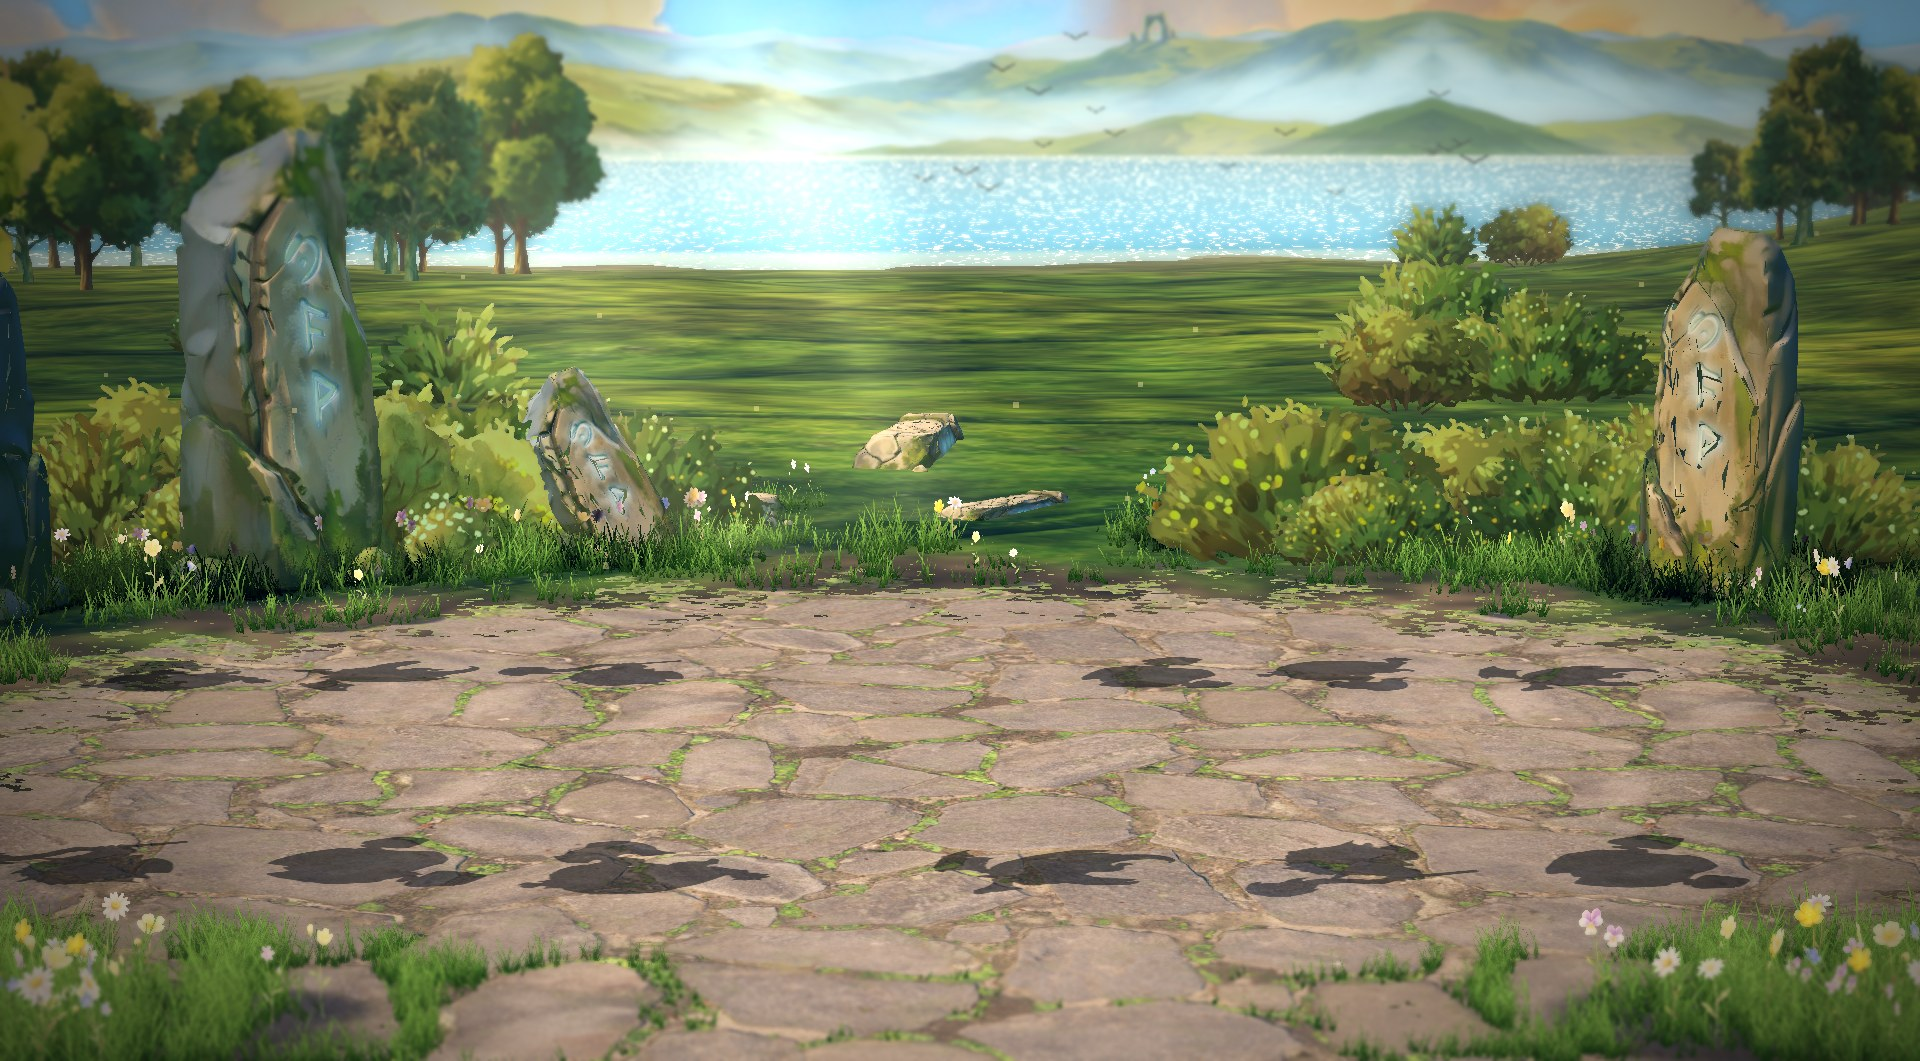
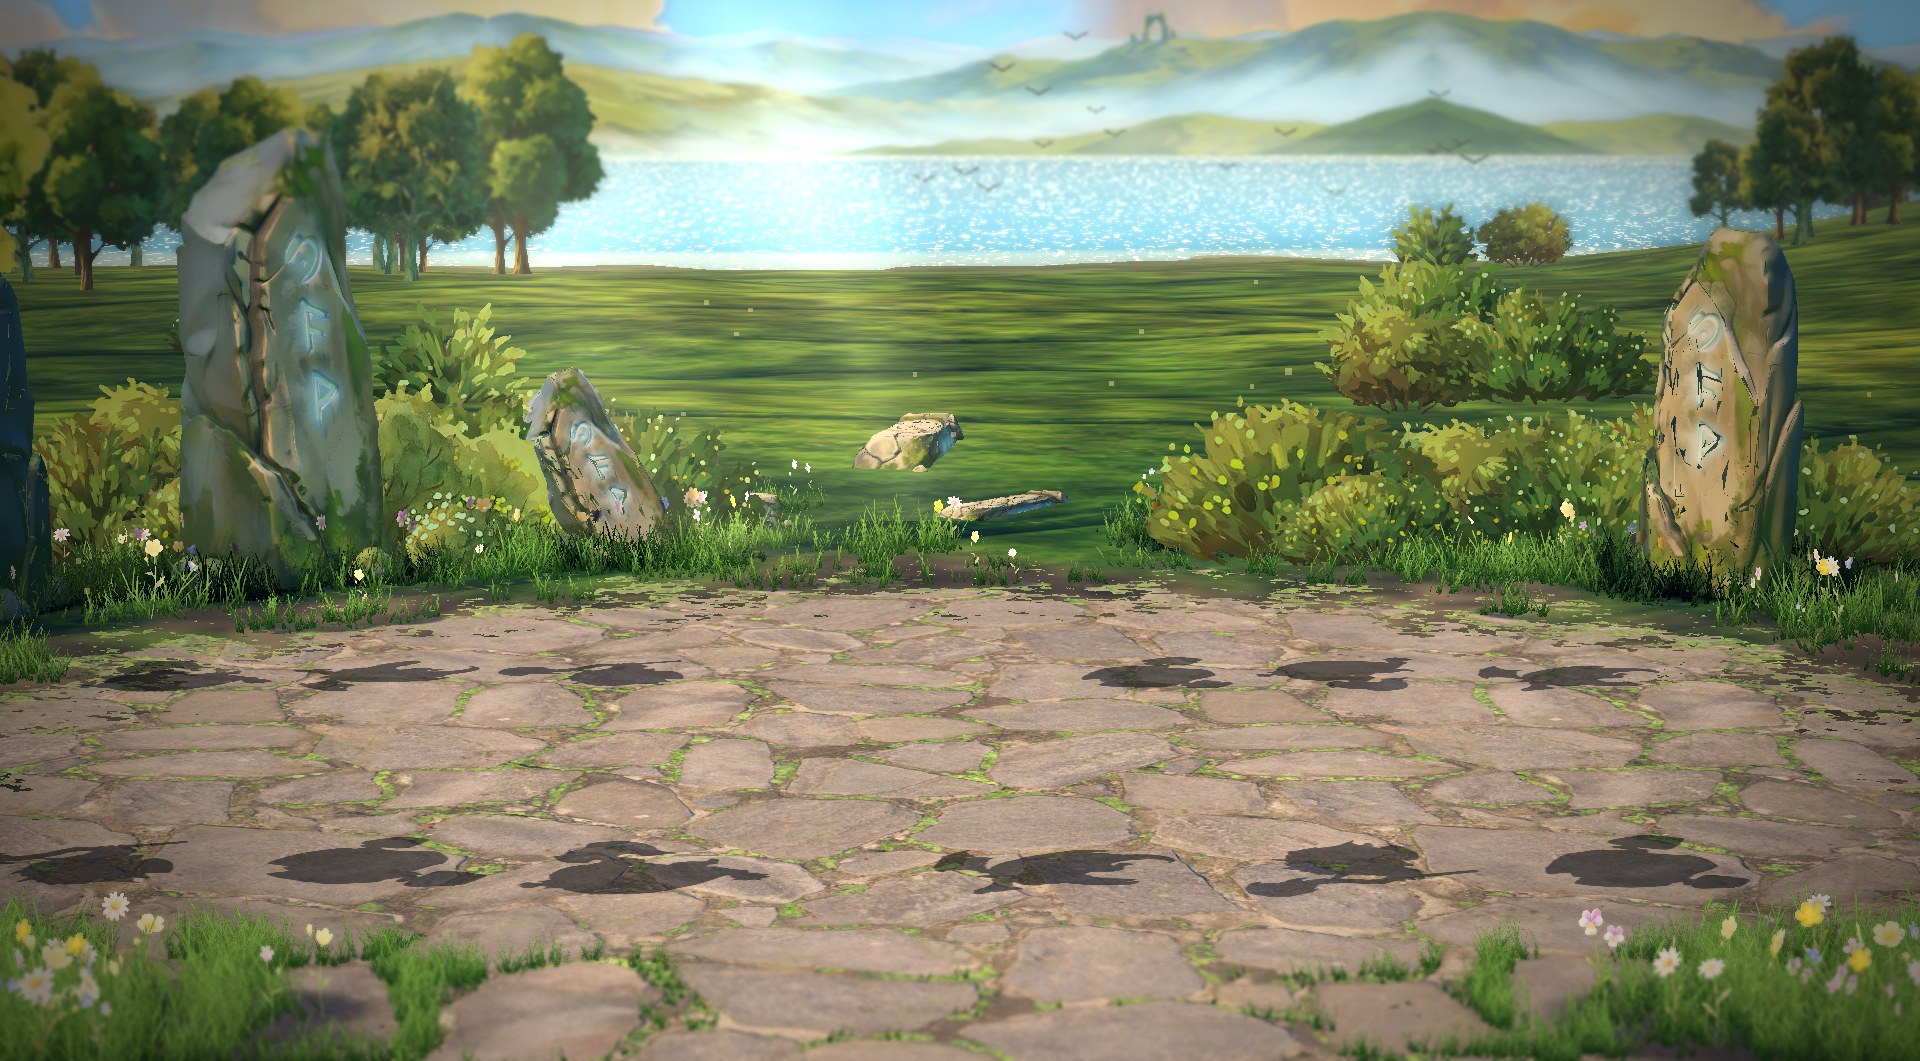
set 238 round 5: sharper tree/bush cards (mip bias + unsharp); r38 re-baked, stills

diff --git a/claude/plan-set238.md b/claude/plan-set238.md
@@ -10,7 +10,7 @@ Security (HARD RULE 9): only the owner's own AI picture, plus art already in the
 3. [x] `_s238_trees` (`s238=1`): polygons measured in the picture — T2 left grove, T1 right lakeside grove, right forest from x 43 (owner green line), MM gap r 20, far trees only x > 60, groves 0.68× height + 2.8 m spacing, O1 clump of 7 bushes at (10.4,−31.5), 12 meadow shrubs.
 4. [x] `_s238_cards` (`mlpic=1`, replaces mlayers): S3/S2/S1 cut from the picture (`preview-set230/cards238.py.txt`: editor UI painted out, silhouettes snapped to the owner's lines, mirrored side pads), each facing the game camera at D 316/308/300 (z −290…−274), picture row 212 → water line, scale `mls=0.85`, `mlcon=1.18`, `mltint`.
 5. [x] Baked → `<g>/art/arena_r38/arena_r38.tscn` (891 nodes, 13 MB, self-contained, 3 S238Layer nodes). View check OK. Stills: claude/preview-set238/. Args: preview-set230/r38_args.txt.
-6. [~] Owner round 1 (Godot, 15 Nov): crossed out the right land behind the lake → `hrc=1` (both terrain copies: right hills fade out at z −185…−215, water there). Fixed in passing: trees were placed before the terrain options were read (lake shift/ridge/hrc now applied to trees too). Re-baked r38 (874 nodes), view check OK. Round 2 (owner, Godot close-up): the layers carried the picture's own foreground (right-shore trees, rock, near hill) and a white smear over the spire → painted over with mist, spire tips under the old toolbar cut, right end = mirrored clean hill (cards238.py). Re-baked, view check OK. Round 3 (owner A1/B1): backdrop = the owner's earlier `far_hills_v3.png` (art/library/pictures/s217) — sharper painting — cut into 3 layers on its ridges (`fh238.py.txt`), side tiles mirrored with the arch cut out so it shows once; `mlset=fh_ mlpad=2048 mlu0=1024 mlv0=375 mls=0.47 mldy=22`. The picture cut (S1–S3 from the overhead picture) stays as the default when `mlset` is not given. Re-baked, view check OK. Round 4 (owner): back trees/bushes smaller so they read far (`tfar=0.6`: 1.0 near the plaza → 0.6 from z −170) · trees and bushes sway in the wind like the grass (`tsway=0.02`: own card shader SWAY238, billboard Y, base fixed, bushes 1.8× amp; checked: 5–8× more motion than tsway=0). Re-baked, view check OK. Owner looks at the stills → tweaks (sample loop) or OK.
+6. [~] Owner round 1 (Godot, 15 Nov): crossed out the right land behind the lake → `hrc=1` (both terrain copies: right hills fade out at z −185…−215, water there). Fixed in passing: trees were placed before the terrain options were read (lake shift/ridge/hrc now applied to trees too). Re-baked r38 (874 nodes), view check OK. Round 2 (owner, Godot close-up): the layers carried the picture's own foreground (right-shore trees, rock, near hill) and a white smear over the spire → painted over with mist, spire tips under the old toolbar cut, right end = mirrored clean hill (cards238.py). Re-baked, view check OK. Round 3 (owner A1/B1): backdrop = the owner's earlier `far_hills_v3.png` (art/library/pictures/s217) — sharper painting — cut into 3 layers on its ridges (`fh238.py.txt`), side tiles mirrored with the arch cut out so it shows once; `mlset=fh_ mlpad=2048 mlu0=1024 mlv0=375 mls=0.47 mldy=22`. The picture cut (S1–S3 from the overhead picture) stays as the default when `mlset` is not given. Re-baked, view check OK. Round 4 (owner): back trees/bushes smaller so they read far (`tfar=0.6`: 1.0 near the plaza → 0.6 from z −170) · trees and bushes sway in the wind like the grass (`tsway=0.02`: own card shader SWAY238, billboard Y, base fixed, bushes 1.8× amp; checked: 5–8× more motion than tsway=0). Re-baked, view check OK. Round 5 (owner: bushes blurry next to the grass): cause = the sway shader sampled smaller mipmaps (bush sharpness 2011 vs old card 2105, measured) → texture bias −1 (`tbias`) + unsharp mask on the card pictures at load (`tshp=0.8`) → 2570. Side finding: the top band of the frame is blurred by the HD-2D tilt-shift pass (art-style rule) — owner did not ask to change it. Re-baked, view check OK. Owner looks at the stills → tweaks (sample loop) or OK.
 7. [ ] rule-change art-style §8: r38 = the arena (was plan-set237 step 6) → plan-set236 step 4 ports `arena_r38`.
 
 ## Known gaps
